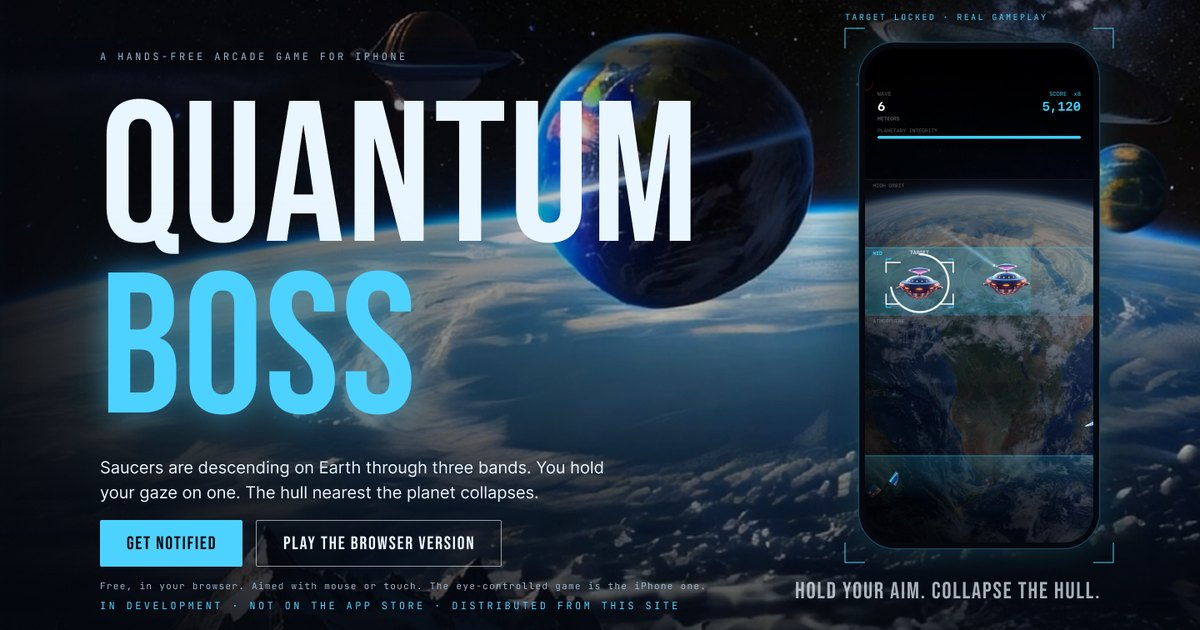
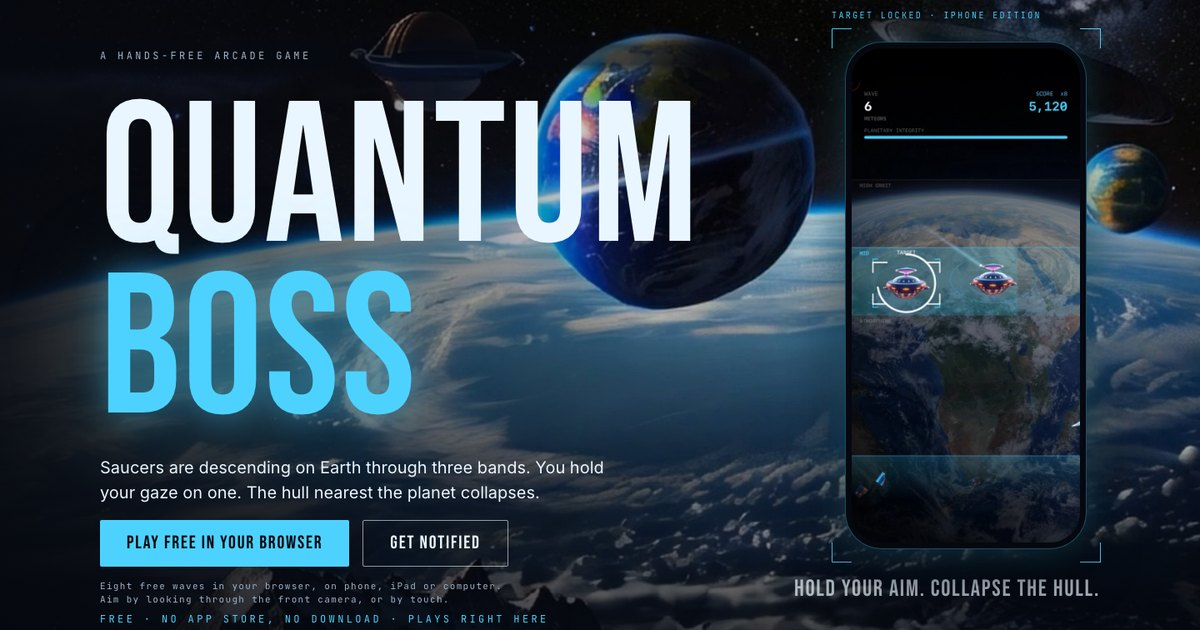
Quantum Boss site: the browser game is the game
Rory doesn't want the iPhone app on the App Store, and that rules out
TestFlight too, so the public can't install it. The site now presents
the free browser game as the way to play: no more promise that the iPhone
build "will be distributed from this site", the signup is for news, and
requirements and privacy describe the browser game. Sections about
things only the original iPhone edition has (the quantum layer, named
Dreadnoughts, planetary conditions) say so. New social card rendered
from the current hero.

diff --git a/quantum-boss/index.html b/quantum-boss/index.html
@@ -4,7 +4,7 @@
 <meta charset="utf-8">
 <meta name="viewport" content="width=device-width, initial-scale=1, viewport-fit=cover">
 <title>Quantum Boss — the arcade game you play with your eyes</title>
-<meta name="description" content="Invader hulls fall toward Earth through three bands. Hold your gaze on one and the hull nearest the planet collapses. An eye-controlled iPhone game in development by Rory Corn, with a free browser version you also play by looking.">
+<meta name="description" content="Invader hulls fall toward Earth through three bands. Hold your gaze on one and the hull nearest the planet collapses. A free browser game by Rory Corn that you play by looking, on phone, iPad or computer.">
 <link rel="canonical" href="https://rorycorn.github.io/quantum-boss/">
 <meta name="theme-color" content="#05080f">
 <meta property="og:type" content="website">
@@ -60,7 +60,7 @@
 
   <div class="wrap hero__inner">
     <div class="hero__copy">
-      <p class="eyebrow">A hands-free arcade game for iPhone</p>
+      <p class="eyebrow">A hands-free arcade game</p>
       <h1 class="hero__title" id="hero-title"><span>Quantum</span><span class="hero__boss">Boss</span></h1>
       <p class="hero__premise">Saucers are descending on Earth through three bands. You hold your gaze on one. The hull nearest the planet collapses.</p>
       <div class="hero__ctas">
@@ -68,13 +68,13 @@
         <a class="btn btn--ghost" href="#notify">Get notified</a>
       </div>
       <p class="fine hero__fine">Eight free waves in your browser, on phone, iPad or computer. Aim by looking through the front camera, or by touch.</p>
-      <p class="hero__status"><span>In development</span> · <span>Not on the App Store</span> · <span>Distributed from this site</span></p>
+      <p class="hero__status"><span>Free</span> · <span>No App Store, no download</span> · <span>Plays right here</span></p>
       <p class="hero__hud-line" aria-hidden="true">WAVE 01 · INTEGRITY 100%</p>
     </div>
 
     <figure class="hero__device">
       <div class="reticle">
-        <span class="reticle__label" aria-hidden="true">Target locked · Real gameplay</span>
+        <span class="reticle__label" aria-hidden="true">Target locked · iPhone edition</span>
         <img class="reticle__b reticle__b--tl" src="assets/svg/bracket-tl.svg" alt="">
         <img class="reticle__b reticle__b--tr" src="assets/svg/bracket-tr.svg" alt="">
         <img class="reticle__b reticle__b--bl" src="assets/svg/bracket-bl.svg" alt="">
@@ -112,7 +112,7 @@
         <h2 class="display how__title" id="how-title">Your eyes are the weapon.</h2>
         <ol class="steps">
           <li class="step"><span class="step__ghost" aria-hidden="true">01</span><p class="step__label">01 Look</p>
-            <p class="step__body">Aim with your eyes. The TrueDepth camera reads your gaze through ARKit. No touch controls during play.</p></li>
+            <p class="step__body">Aim by looking. Your front camera follows your head as you look up and down, right on your device. Touch works too.</p></li>
           <li class="step"><span class="step__ghost" aria-hidden="true">02</span><p class="step__label">02 Hold</p>
             <p class="step__body">Hold your gaze on a band. HIGH ORBIT, MID or ATMOSPHERE. The reticle locks.</p></li>
           <li class="step"><span class="step__ghost" aria-hidden="true">03</span><p class="step__label">03 Collapse</p>
@@ -134,7 +134,7 @@
                  alt="The three bands on screen, HIGH ORBIT, MID and ATMOSPHERE, with a hull locked in the MID band.">
           </div>
         </div>
-        <figcaption class="how__cap">Target lock · MID band · ×8</figcaption>
+        <figcaption class="how__cap">iPhone edition · MID band · ×8</figcaption>
       </figure>
     </div>
   </div>
@@ -154,7 +154,7 @@
     </div>
     <div class="quantum__grid">
       <div>
-        <p class="eyebrow">The quantum layer</p>
+        <p class="eyebrow">The quantum layer · iPhone edition</p>
         <h2 class="display quantum__title" id="quantum-title">Nothing is where it is until you look.</h2>
         <dl class="qparas">
           <div><dt>Probability</dt><dd>Hulls drift inside probability clouds until they are observed.</dd></div>
@@ -193,7 +193,7 @@
     <p class="eyebrow eyebrow--orange">Every fourth wave</p>
     <h2 class="display dread__title" id="dread-title">Dreadnoughts.</h2>
     <i class="rule-orange" aria-hidden="true"></i>
-    <p class="lede dread__lede">A named boss with several collapse cores and a health bar. Six on file.</p>
+    <p class="lede dread__lede">A boss with several collapse cores. The browser game sends two. The iPhone edition has six, each with a name and a health bar.</p>
     <ul class="bosses">
       <li class="boss">
         <div class="boss__img"><img src="assets/img/boss-archon.jpg" alt="" width="896" height="576" loading="lazy"></div>
@@ -246,7 +246,7 @@
     </div>
     <div class="cond__grid">
       <div>
-        <p class="eyebrow">Planetary conditions</p>
+        <p class="eyebrow">Planetary conditions · iPhone edition</p>
         <h2 class="display cond__title" id="cond-title">Each run draws one.</h2>
         <p class="lede cond__lede">Six conditions. One per run, drawn when the run begins. The planet below changes. The bands do not.</p>
         <ol class="conds">
@@ -282,23 +282,22 @@
   <div class="privacy__scrim" aria-hidden="true"></div>
   <div class="wrap">
     <div class="rail" aria-hidden="true"></div>
-    <p class="eyebrow">The iPhone app</p>
-    <h2 class="display privacy__title" id="privacy-title"><span>Plays only on iPhone with Face ID.</span><span class="cyan">Nothing leaves your phone.</span></h2>
+    <p class="eyebrow">Requirements and privacy</p>
+    <h2 class="display privacy__title" id="privacy-title"><span>Plays right in your browser.</span><span class="cyan">Nothing leaves your device.</span></h2>
     <div class="privacy__grid">
       <div class="col">
         <p class="col__head">Requirements</p>
-        <p>iPhone X or later. iOS 17 or later.</p>
-        <p>Uses the TrueDepth (Face ID) camera through ARKit. No touch controls during play.</p>
-        <p>The first run fits the gaze bands to your face with three short holds. If the measured eye signal is weak, it drops to two bands.</p>
-        <p>Works best in a well-lit room, held at normal reading distance. There is an 'I wear glasses' toggle.</p>
+        <p>A phone, iPad or computer with a current browser, such as Safari or Chrome.</p>
+        <p>Head tracking uses the front camera. Allow camera access when asked, or play by touch instead.</p>
+        <p>When you start, it asks you to look up, then down, to fit the bands to you. If your movement is small, it uses two bigger bands instead of three.</p>
+        <p>Works best in a well-lit room. The original iPhone edition, played with the Face ID camera, is not released.</p>
       </div>
       <div class="col">
         <p class="col__head">Privacy</p>
-        <p class="strong">No account. No sign-in. No network. No analytics. No ads. No third-party SDKs.</p>
-        <p>The camera feed and face data are processed live, in memory, on the phone. They are never recorded, stored, or transmitted.</p>
-        <p>Deleting the app deletes everything.</p>
-        <p>The browser version tracks your face on your device too. Nothing from the camera is recorded or uploaded.</p>
-        <p><a class="link-mono" href="https://proxipals.onrender.com/quantum-boss.html#privacy">Support and privacy details →</a></p>
+        <p class="strong">No account. No sign-in. No ads. No analytics.</p>
+        <p>The camera picture is processed live on your device. It is never recorded, stored, or uploaded.</p>
+        <p>The face-tracking software, Google's open-source MediaPipe, downloads when you start head tracking. Nothing from your camera is sent anywhere.</p>
+        <p>Your best score is kept only in your browser.</p>
       </div>
       <figure class="face">
         <img src="assets/svg/face-truedepth.svg" alt="">
@@ -308,14 +307,14 @@
   </div>
 </section>
 
-<!-- ======================= EARLY ACCESS ======================= -->
+<!-- ======================= NEWS ======================= -->
 <section class="sec notify" id="notify" aria-labelledby="notify-title">
   <div class="wrap">
     <div class="rail" aria-hidden="true"></div>
     <div class="notify__inner">
-      <p class="eyebrow">Early access</p>
+      <p class="eyebrow">News</p>
       <h2 class="display notify__title" id="notify-title">Get notified.</h2>
-      <p class="lede notify__lede">The iPhone build is in development. It will be distributed from this site, not the App Store. Leave an email and you will hear when it is ready.</p>
+      <p class="lede notify__lede">Leave an email and you will hear when there is news about Quantum Boss.</p>
       <form class="notify__form" id="notify-form" action="https://n8n.srv1640797.hstgr.cloud/webhook/quantum-boss-signup" method="post" novalidate>
         <label class="sr-only" for="notify-email">Email address</label>
         <input id="notify-email" name="email" type="email" inputmode="email" autocomplete="email" placeholder="your@email" required maxlength="254">
@@ -326,8 +325,8 @@
         <input type="hidden" name="source" value="quantum-boss-site">
         <button class="btn btn--primary" type="submit">Get notified</button>
       </form>
-      <p class="fine notify__status" id="notify-status" role="status" aria-live="polite">One message when the build is ready. Nothing else.</p>
-      <p class="notify__alt">Or play the <a href="play/">browser version</a> now: eight free waves on phone, iPad or computer, aimed by looking through your front camera.</p>
+      <p class="fine notify__status" id="notify-status" role="status" aria-live="polite">Only Quantum Boss news. Nothing else.</p>
+      <p class="notify__alt">Or <a href="play/">play it now</a>, free in your browser.</p>
     </div>
   </div>
 </section>
@@ -349,18 +348,17 @@
         <span class="wordmark" aria-hidden="true"><span>QUANTUM</span><span class="wordmark__boss">BOSS</span></span>
       </a>
       <p class="foot__links">
-        <a href="https://proxipals.onrender.com/quantum-boss.html#support">Support</a><b aria-hidden="true">·</b>
-        <a href="https://proxipals.onrender.com/quantum-boss.html#privacy">Privacy</a><b aria-hidden="true">·</b>
+        <a href="#privacy">Privacy</a><b aria-hidden="true">·</b>
         <a href="play/">Play free</a><b aria-hidden="true">·</b>
         <span id="contact">Contact <span class="email">rcorn88 <em>at</em> gmail <em>dot</em> com</span></span>
       </p>
       <p class="foot__made">Made by Rory Corn, an independent developer.</p>
-      <p class="foot__legal">© 2026 Rory Corn · iPhone app in development · Browser version plays by camera or touch</p>
+      <p class="foot__legal">© 2026 Rory Corn · Free browser game · Plays by camera or touch</p>
     </div>
     <div class="film" aria-hidden="true"><i></i><i></i><i></i><i></i><i></i><i></i><i></i><i></i><i></i><i></i><i></i><i></i></div>
   </div>
 </footer>
 
-<script src="main.js?v=1" defer></script>
+<script src="main.js?v=2" defer></script>
 </body>
 </html>

diff --git a/quantum-boss/play/index.html b/quantum-boss/play/index.html
@@ -50,8 +50,8 @@
       Works best in a well-lit room.
     </p>
     <p class="fineprint fullgame">
-      This free browser version runs eight waves with two Dreadnoughts. The full iPhone game adds every wave, all six
-      Dreadnoughts, six planetary conditions, entangled pairs and TrueDepth eye tracking. <a href="../">About Quantum Boss</a>
+      This browser game runs eight waves with two Dreadnoughts. The original iPhone edition, not released, adds every
+      wave, all six Dreadnoughts, six planetary conditions, entangled pairs and Face ID eye tracking. <a href="../">About Quantum Boss</a>
     </p>
   </div>
 </div>
@@ -72,7 +72,7 @@
     <p class="score">SCORE <span id="overScore">0</span></p>
     <p class="sub" id="overSub">You held out for <span id="overWave">1</span> waves.</p>
     <button class="cta" id="btnAgain">▶ Play again</button>
-    <a class="cta ghost" id="btnSite" href="../">About the iPhone game</a>
+    <a class="cta ghost" id="btnSite" href="../">About Quantum Boss</a>
     <p class="fineprint" id="bandNote"></p>
   </div>
 </div>

diff --git a/quantum-boss/main.js b/quantum-boss/main.js
@@ -21,7 +21,7 @@
     if (e.key === "Escape" && nav.classList.contains("is-open")) { setOpen(false); toggle.focus(); }
   });
 
-  // ---- early access form ----
+  // ---- news signup form ----
   // Posts form-encoded (a "simple" request, so no CORS preflight) to Rory's n8n
   // workflow, which validates, de-duplicates and stores the address.
   var form = document.getElementById("notify-form");
@@ -55,10 +55,10 @@
       })
       .then(function (r) {
         if (r.ok && r.data && r.data.status === "already") {
-          say("You're already on the list. One message when it's ready.", "ok");
+          say("You're already on the list.", "ok");
           form.reset();
         } else if (r.ok) {
-          say("You're on the list. One message when the build is ready.", "ok");
+          say("You're on the list. Only Quantum Boss news.", "ok");
           form.reset();
         } else if (r.data && r.data.status === "invalid") {
           say("Check that email address.", "err");
